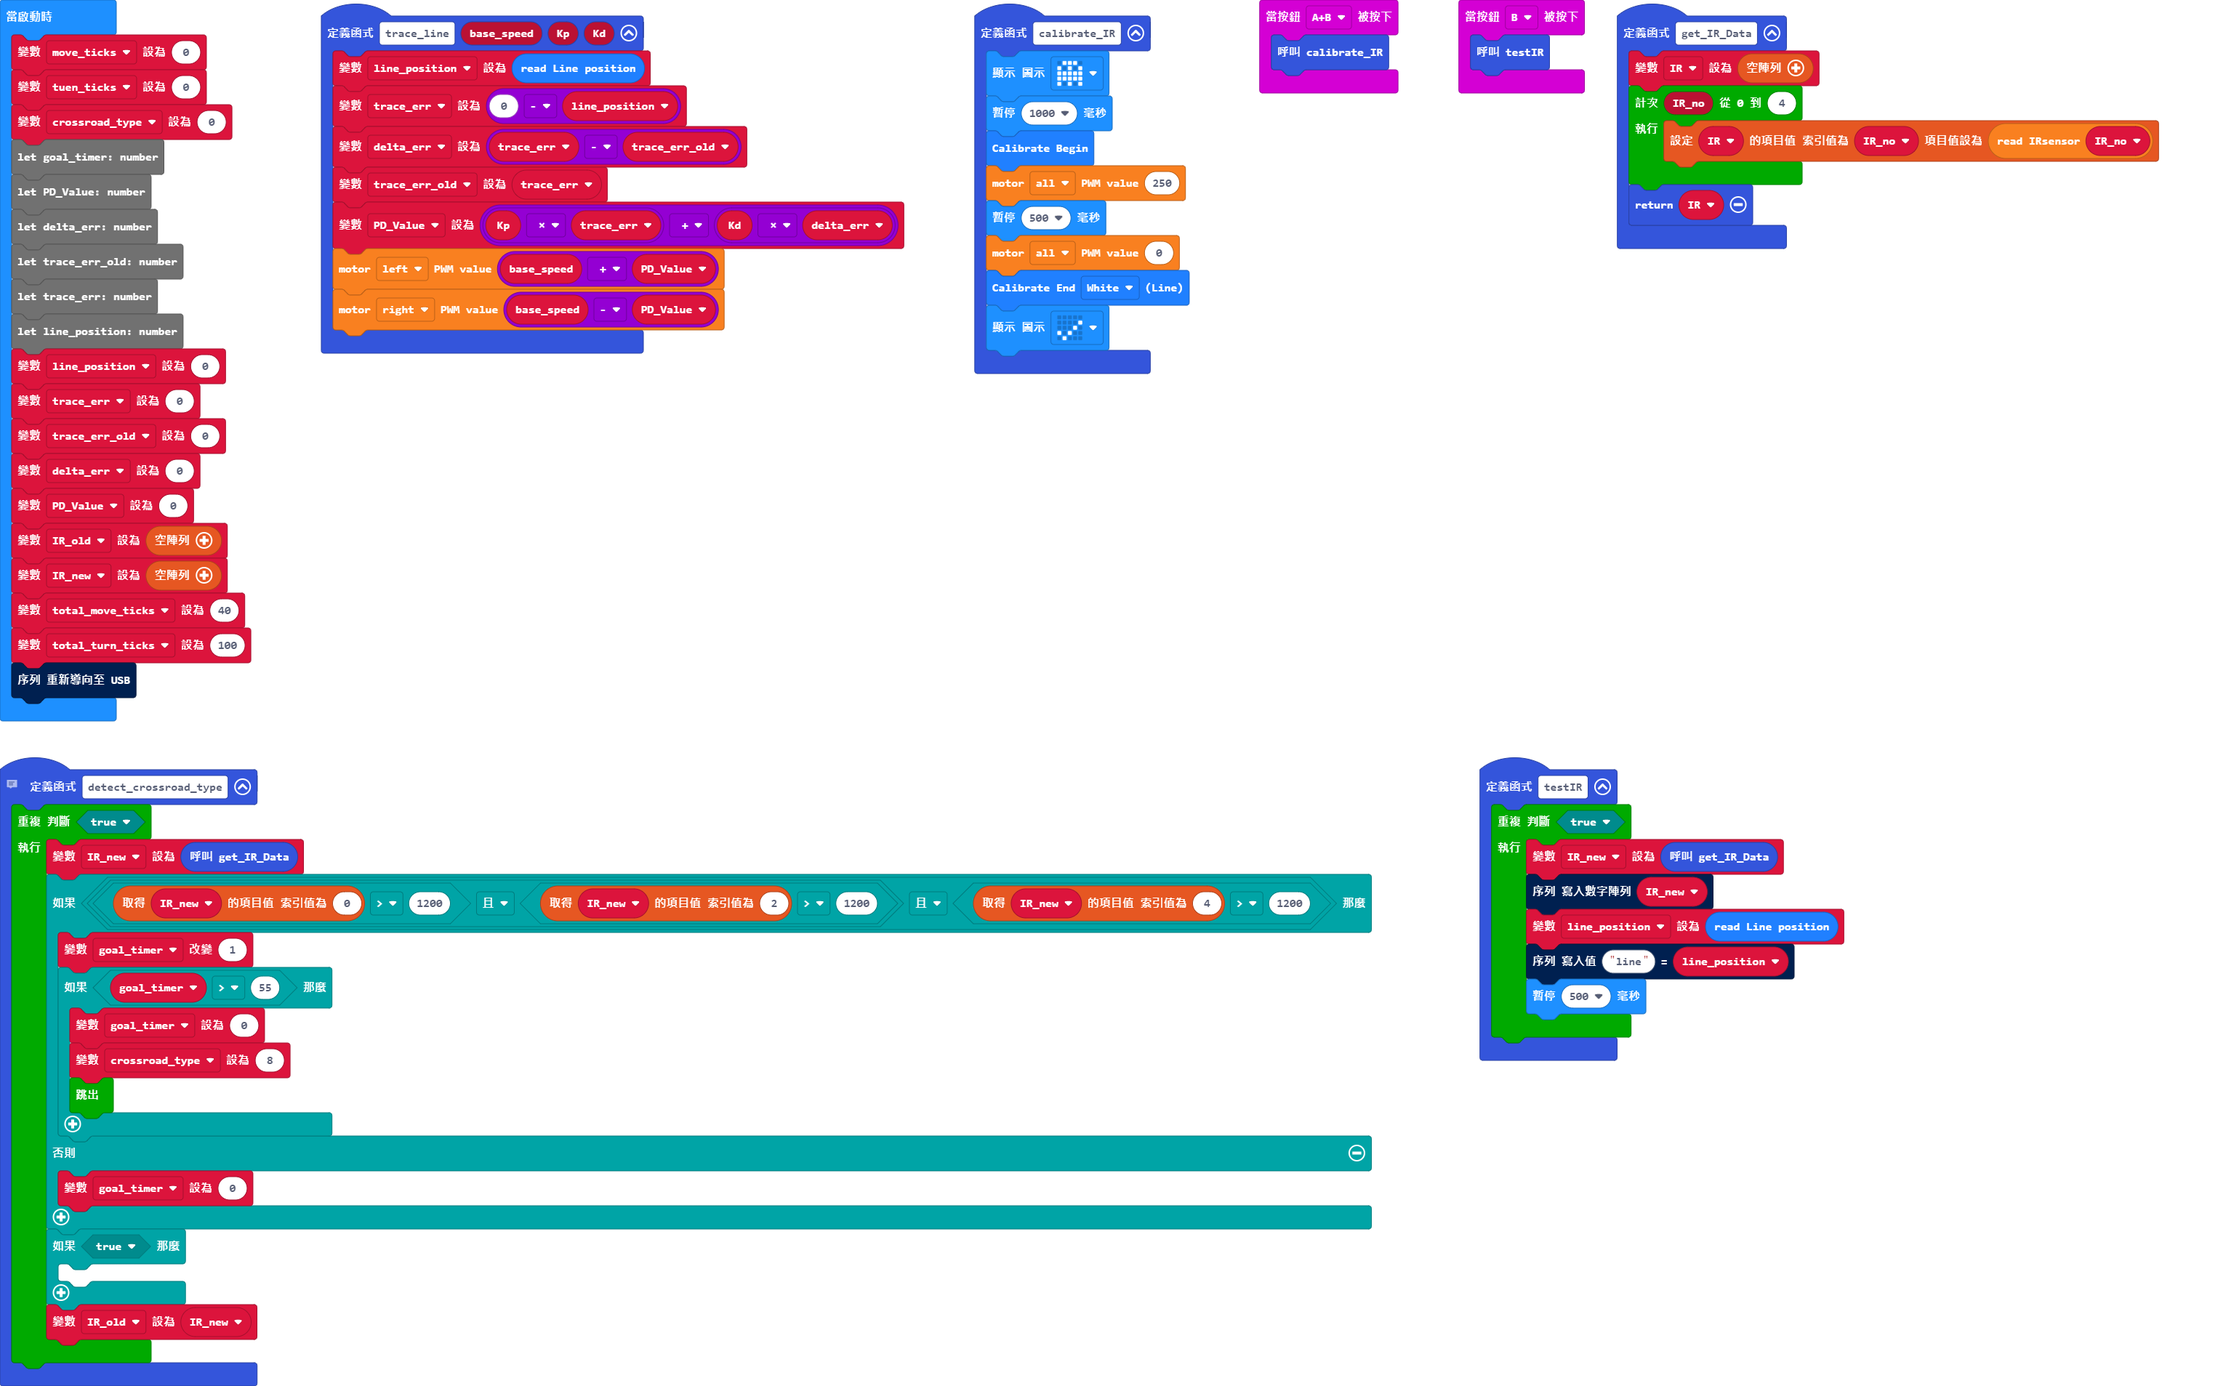
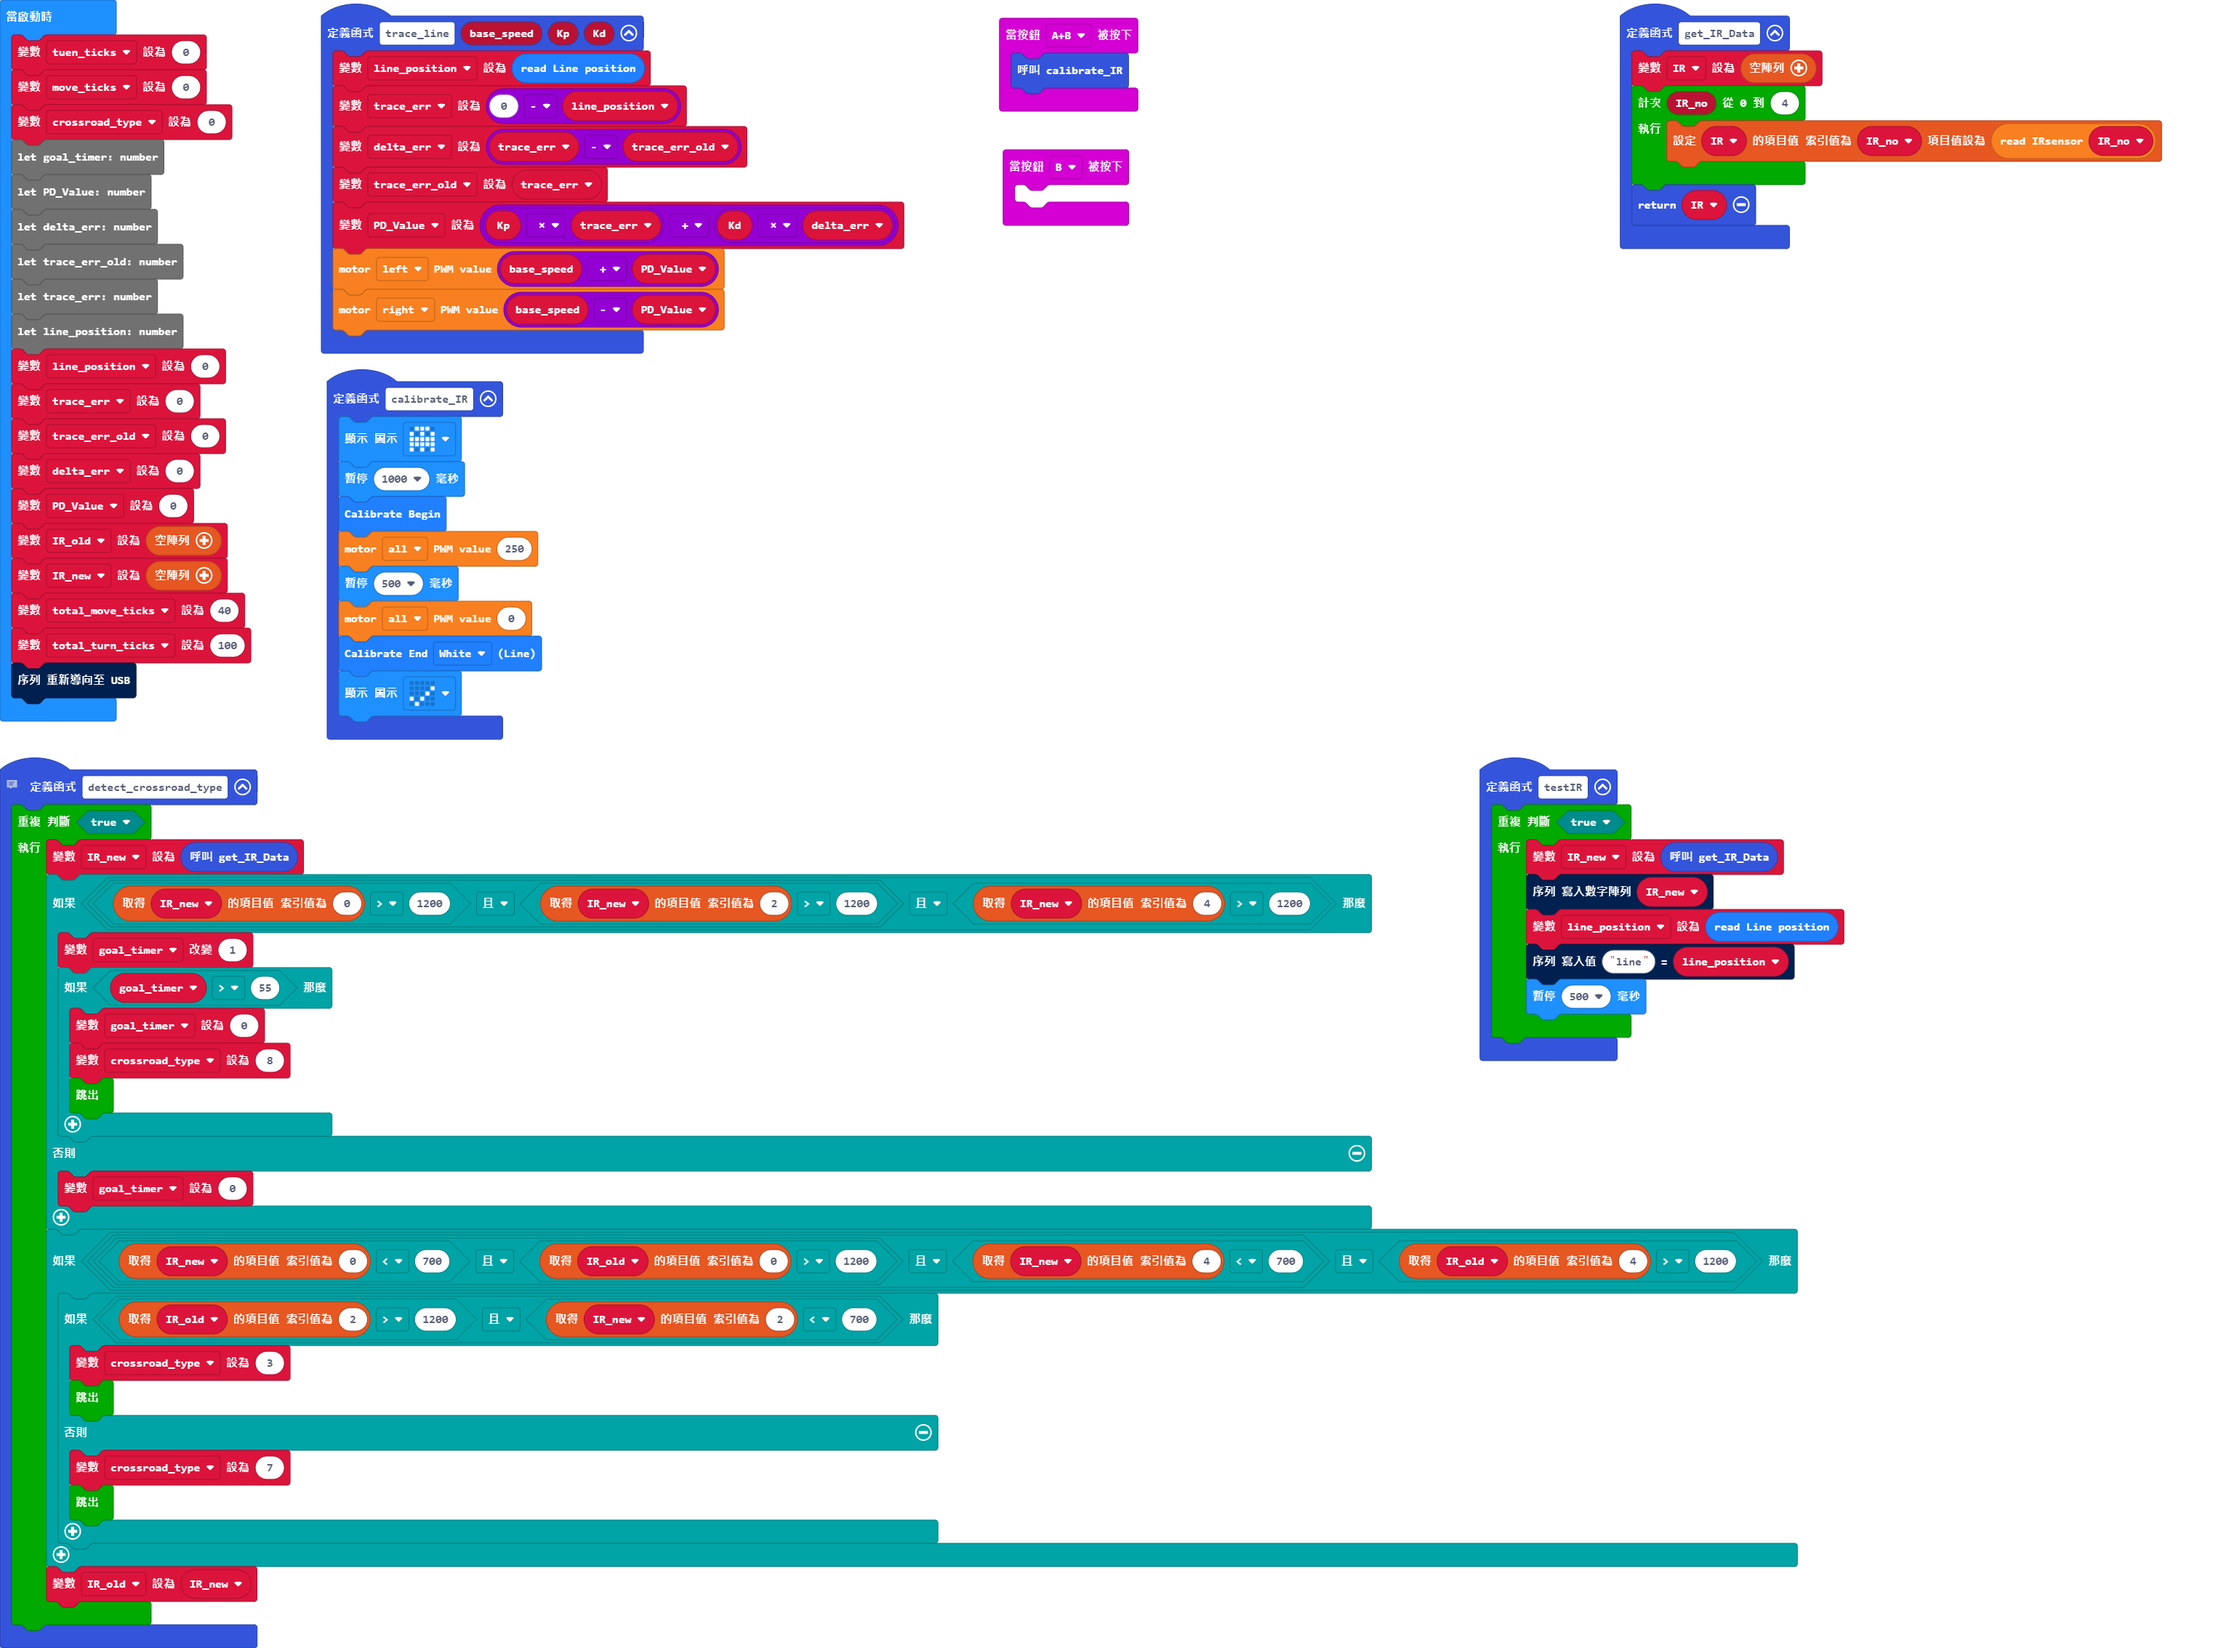
Update main.blocks, main.ts

diff --git a/main.ts b/main.ts
@@ -15,8 +15,14 @@ function detect_crossroad_type () {
         } else {
             goal_timer = 0
         }
-        if (true) {
-        	
+        if (IR_new[0] < 700 && IR_old[0] > 1200 && IR_new[4] < 700 && IR_old[4] > 1200) {
+            if (IR_old[2] > 1200 && IR_new[2] < 700) {
+                crossroad_type = 3
+                break;
+            } else {
+                crossroad_type = 7
+                break;
+            }
         }
         IR_old = IR_new
     }
@@ -44,7 +50,7 @@ input.onButtonPressed(Button.AB, function () {
     calibrate_IR()
 })
 input.onButtonPressed(Button.B, function () {
-    testIR()
+	
 })
 function testIR () {
     while (true) {
@@ -66,8 +72,8 @@ let IR: number[] = []
 let IR_new: number[] = []
 let IR_old: number[] = []
 let crossroad_type: number = []
-let move_ticks = 0
 let tuen_ticks = 0
+let move_ticks = 0
 crossroad_type = 0
 let goal_timer: number
 let PD_Value: number
